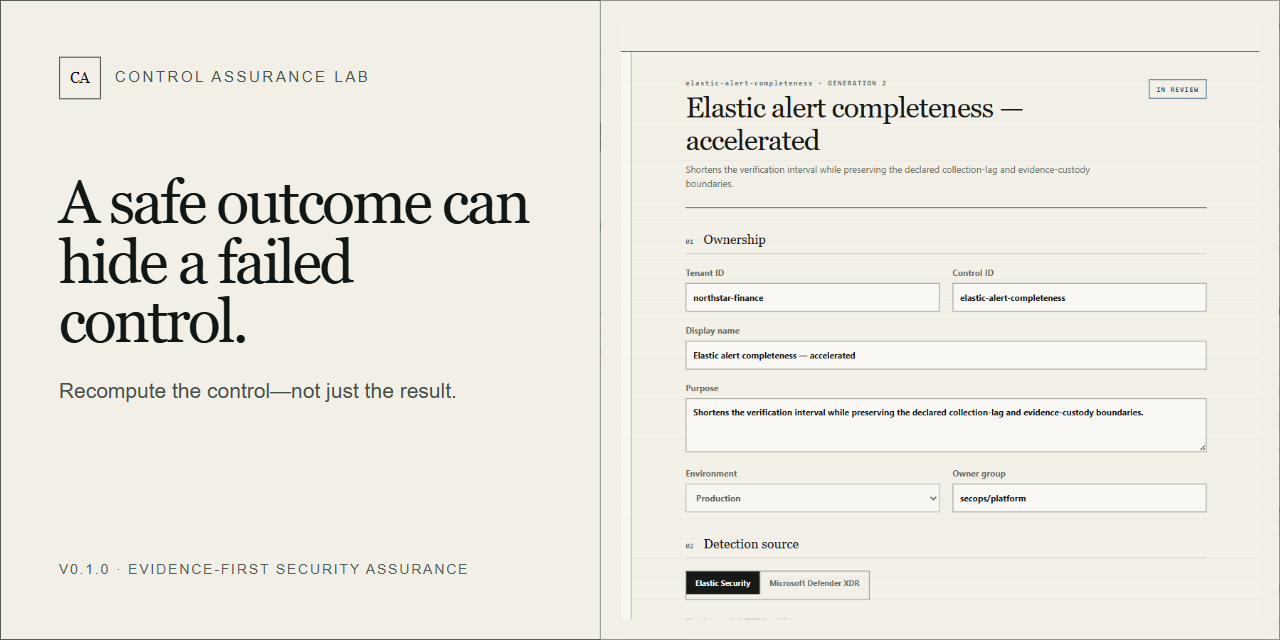
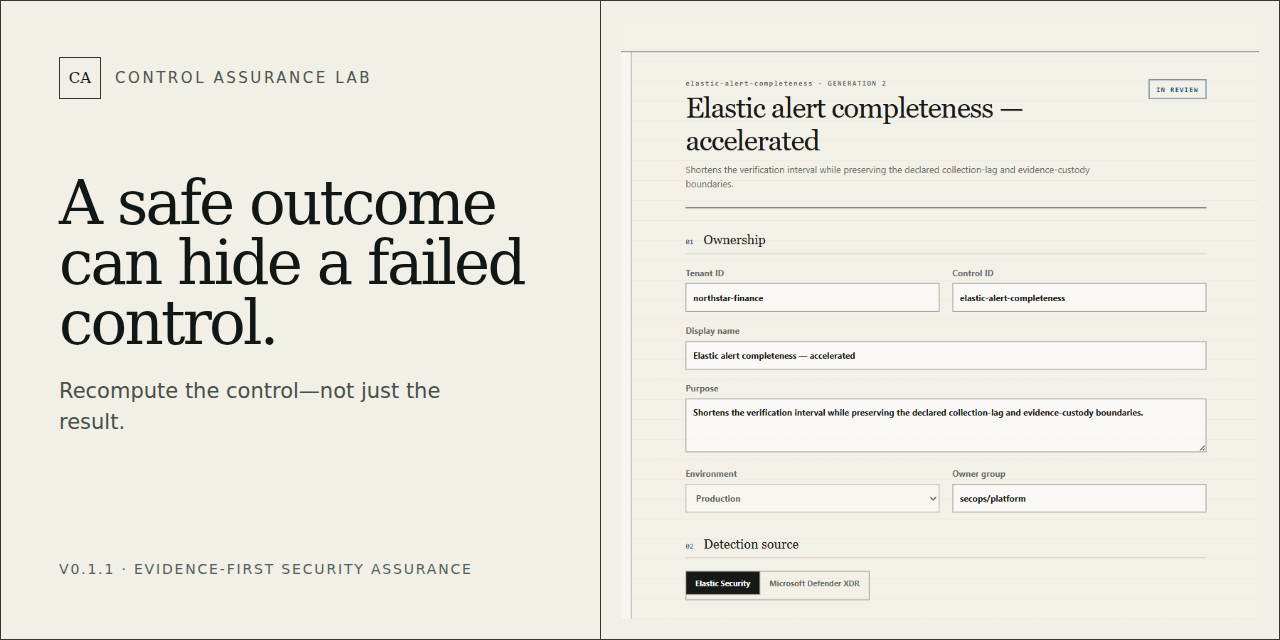
Harden the v0.1.1 container release

diff --git a/docs/assets/social-preview-source.html b/docs/assets/social-preview-source.html
@@ -120,7 +120,7 @@
         </div>
         <h1>A safe outcome can hide a failed control.</h1>
         <p class="subhead">Recompute the control—not just the result.</p>
-        <p class="release">v0.1.0 · Evidence-first security assurance</p>
+        <p class="release">v0.1.1 · Evidence-first security assurance</p>
       </section>
       <section class="product" aria-label="Control plane preview">
         <img

diff --git a/scripts/canonicalize-buildkit-layout.py b/scripts/canonicalize-buildkit-layout.py
@@ -1,0 +1,69 @@
+#!/usr/bin/env python3
+"""Remove only BuildKit's empty local-content-store ingest workspace."""
+
+from __future__ import annotations
+
+import argparse
+import os
+import stat
+from pathlib import Path
+
+
+class LayoutRejectedError(ValueError):
+    """The BuildKit output cannot be reduced to a closed OCI layout."""
+
+
+def canonicalize(layout: Path) -> None:
+    """Remove ``ingest`` only when both paths are real directories and it is empty."""
+
+    try:
+        layout_mode = layout.lstat().st_mode
+    except FileNotFoundError as error:
+        raise LayoutRejectedError(f"layout directory does not exist: {layout}") from error
+    if not stat.S_ISDIR(layout_mode):
+        raise LayoutRejectedError(f"layout path is not a directory: {layout}")
+
+    ingest = layout / "ingest"
+    try:
+        ingest_mode = ingest.lstat().st_mode
+    except FileNotFoundError as error:
+        raise LayoutRejectedError(
+            f"expected BuildKit ingest directory is missing: {ingest}"
+        ) from error
+    if not stat.S_ISDIR(ingest_mode):
+        raise LayoutRejectedError(
+            f"BuildKit ingest path is not a real directory: {ingest}"
+        )
+
+    with os.scandir(ingest) as entries:
+        if next(entries, None) is not None:
+            raise LayoutRejectedError(
+                f"BuildKit ingest directory is not empty: {ingest}"
+            )
+
+    # This is the final emptiness check: rmdir fails atomically if a writer
+    # creates an entry after the scan.
+    os.rmdir(ingest)
+
+
+def main() -> int:
+    parser = argparse.ArgumentParser(
+        description=(
+            "Remove BuildKit's empty containerd ingest workspace before strict "
+            "OCI-layout verification."
+        )
+    )
+    parser.add_argument("layout", type=Path, help="BuildKit OCI directory output")
+    arguments = parser.parse_args()
+
+    try:
+        canonicalize(arguments.layout)
+    except (LayoutRejectedError, OSError) as error:
+        parser.exit(1, f"layout canonicalization rejected: {error}\n")
+
+    print(f"Removed empty BuildKit ingest workspace: {arguments.layout / 'ingest'}")
+    return 0
+
+
+if __name__ == "__main__":
+    raise SystemExit(main())

diff --git a/tests/test_buildkit_layout_canonicalizer.py b/tests/test_buildkit_layout_canonicalizer.py
@@ -1,0 +1,60 @@
+from __future__ import annotations
+
+import subprocess
+import sys
+from pathlib import Path
+
+import pytest
+
+_ROOT = Path(__file__).resolve().parents[1]
+_CANONICALIZER = _ROOT / "scripts" / "canonicalize-buildkit-layout.py"
+
+
+def _run(layout: Path) -> subprocess.CompletedProcess[str]:
+    return subprocess.run(
+        [sys.executable, str(_CANONICALIZER), str(layout)],
+        check=False,
+        capture_output=True,
+        text=True,
+    )
+
+
+def test_removes_only_an_empty_buildkit_ingest_workspace(tmp_path: Path) -> None:
+    layout = tmp_path / "layout"
+    ingest = layout / "ingest"
+    ingest.mkdir(parents=True)
+    (layout / "index.json").write_text("{}\n", encoding="utf-8")
+
+    result = _run(layout)
+
+    assert result.returncode == 0
+    assert not ingest.exists()
+    assert (layout / "index.json").read_text(encoding="utf-8") == "{}\n"
+
+
+@pytest.mark.parametrize("condition", ["missing", "nonempty", "symlink"])
+def test_rejects_any_noncanonical_ingest_state_without_deleting_it(
+    tmp_path: Path, condition: str
+) -> None:
+    layout = tmp_path / "layout"
+    layout.mkdir()
+    ingest = layout / "ingest"
+
+    if condition == "nonempty":
+        ingest.mkdir()
+        (ingest / "active").write_text("incomplete\n", encoding="utf-8")
+    elif condition == "symlink":
+        target = tmp_path / "target"
+        target.mkdir()
+        ingest.symlink_to(target, target_is_directory=True)
+
+    result = _run(layout)
+
+    assert result.returncode == 1
+    assert result.stderr.startswith("layout canonicalization rejected:")
+    if condition == "nonempty":
+        assert (ingest / "active").read_text(encoding="utf-8") == "incomplete\n"
+    elif condition == "symlink":
+        assert ingest.is_symlink()
+    else:
+        assert not ingest.exists()

diff --git a/tests/test_container_assets.py b/tests/test_container_assets.py
@@ -118,6 +118,12 @@ def test_release_repeats_every_source_and_distribution_gate_on_the_tag() -> None
 
 def test_release_scans_the_exact_unpublished_layout_on_both_platforms() -> None:
     build = _release_step("build-scan", "Build the unpublished multi-platform OCI layout")
+    canonicalize = _release_step(
+        "build-scan", "Canonicalize the BuildKit content-store layout"
+    )
+    close = _release_step(
+        "build-scan", "Close the layout over both images and both attestations"
+    )
     assert build["with"]["push"] is False
     assert build["with"]["platforms"] == "linux/amd64,linux/arm64"
     assert "type=oci" in build["with"]["outputs"]
@@ -128,6 +134,18 @@ def test_release_scans_the_exact_unpublished_layout_on_both_platforms() -> None:
         "generator=docker/buildkit-syft-scanner@"
         "sha256:79e7b013cbec16bbb436f312819a49a4a57752b2270c1a9332ae1a10fcc82a68"
     )
+    assert canonicalize["env"]["LAYOUT"] == "${{ runner.temp }}/control-assurance-oci"
+    assert (
+        'python scripts/canonicalize-buildkit-layout.py "$LAYOUT"'
+        in canonicalize["run"]
+    )
+    step_names = [
+        step.get("name")
+        for step in _RELEASE["jobs"]["build-scan"]["steps"]
+        if isinstance(step, dict)
+    ]
+    assert step_names.index(build["name"]) < step_names.index(canonicalize["name"])
+    assert step_names.index(canonicalize["name"]) < step_names.index(close["name"])
     assert "docker/login-action@" not in yaml.safe_dump(_RELEASE["jobs"]["build-scan"])
     assert _RELEASE_WORKFLOW.count("TRIVY_PLATFORM: linux/amd64") == 1
     assert _RELEASE_WORKFLOW.count("TRIVY_PLATFORM: linux/arm64") == 1

diff --git a/tests/test_container_layout_verifier.py b/tests/test_container_layout_verifier.py
@@ -16,7 +16,7 @@ import pytest
 _ROOT = Path(__file__).resolve().parents[1]
 _VERIFIER = _ROOT / "scripts" / "verify-container-layout.py"
 _REFERENCE = "sha-deadbeef"
-_VERSION = "0.1.0"
+_VERSION = "0.1.1"
 _REVISION = "d" * 40
 _SOURCE = "https://github.com/gyubin02/control-assurance-lab"
 _EPOCH = 1_700_000_000

diff --git a/README.md b/README.md
@@ -1,11 +1,11 @@
 # Control Assurance Lab
 
 [![CI](https://github.com/gyubin02/control-assurance-lab/actions/workflows/checks.yml/badge.svg)](https://github.com/gyubin02/control-assurance-lab/actions/workflows/checks.yml)
-[![Release](https://img.shields.io/github/v/release/gyubin02/control-assurance-lab?display_name=tag&sort=semver)](https://github.com/gyubin02/control-assurance-lab/releases/tag/v0.1.0)
+[![Release](https://img.shields.io/github/v/release/gyubin02/control-assurance-lab?display_name=tag&sort=semver)](https://github.com/gyubin02/control-assurance-lab/releases/tag/v0.1.1)
 [![License](https://img.shields.io/badge/license-Apache--2.0-1f4b3f.svg)](LICENSE)
 
 Control Assurance Lab identifies which security control failed—even when a
-downstream safeguard kept the final outcome safe. v0.1.0 combines reproducible
+downstream safeguard kept the final outcome safe. v0.1.1 combines reproducible
 matched-intervention experiments with an identity-bound evidence runtime and a
 change-controlled web control plane.
 
@@ -15,11 +15,11 @@ change-controlled web control plane.
 
 ![Control Assurance change desk with an applied first generation and a second generation awaiting independent review](docs/assets/control-plane-hero.png)
 
-*The real v0.1.0 interface with synthetic operator data. Production access
+*The real v0.1.1 interface with synthetic operator data. Production access
 requires SSO; no demo login is shipped.*
 
 [Inspect the verified case](https://gyubin02.github.io/control-assurance-lab/web/)
-· [Read the v0.1.0 release](https://github.com/gyubin02/control-assurance-lab/releases/tag/v0.1.0)
+· [Read the v0.1.1 release](https://github.com/gyubin02/control-assurance-lab/releases/tag/v0.1.1)
 · [Review the pilot boundary](docs/financial-pilot-boundary.md)
 
 ## Why this exists
@@ -53,7 +53,7 @@ Python 3.12.x is required. The upper bound is intentional: the locked
 environment and release image are not qualified on Python 3.13.
 
 ```bash
-git clone --branch v0.1.0 --depth 1 \
+git clone --branch v0.1.1 --depth 1 \
   https://github.com/gyubin02/control-assurance-lab.git
 cd control-assurance-lab
 
@@ -115,10 +115,10 @@ assurance-lab benchmark release verify /tmp/financial-control-lifecycle-v1
 That build runs three synthetic scenarios, 16 factorial cells per scenario,
 and three exact replicates per cell: 144 executions. It also replays the frozen
 C01–C20 corruption corpus and requires the Python and Node evaluators to agree.
-v0.1.0 does not include a precomputed benchmark result; the command creates a
+v0.1.1 does not include a precomputed benchmark result; the command creates a
 local, content-closed result.
 
-## What ships in v0.1.0
+## What ships in v0.1.1
 
 | Surface | Implemented boundary |
 |---|---|
@@ -217,12 +217,12 @@ arbitrary experiment profiles.
 
 ## Container release
 
-The `v0.1.0` tag publishes the same source as a non-root `linux/amd64` and
+The `v0.1.1` tag publishes the same source as a non-root `linux/amd64` and
 `linux/arm64` image:
 
 ```bash
-docker pull ghcr.io/gyubin02/control-assurance-lab:0.1.0
-docker run --rm ghcr.io/gyubin02/control-assurance-lab:0.1.0 \
+docker pull ghcr.io/gyubin02/control-assurance-lab:0.1.1
+docker run --rm ghcr.io/gyubin02/control-assurance-lab:0.1.1 \
   assurance-lab --version
 ```
 

diff --git a/deploy/container/README.md b/deploy/container/README.md
@@ -21,8 +21,8 @@ Build the same source tree used for the source-revision label:
 docker build \
   --build-arg SOURCE_REVISION="$(git rev-parse HEAD)" \
   --build-arg SOURCE_DATE_EPOCH="$(git show -s --format=%ct HEAD)" \
-  --build-arg IMAGE_VERSION="0.1.0" \
-  --tag control-assurance-lab:0.1.0 \
+  --build-arg IMAGE_VERSION="0.1.1" \
+  --tag control-assurance-lab:0.1.1 \
   .
 ```
 
@@ -70,9 +70,9 @@ identity; a mutable tag is not a trust anchor.
 
 ## Verify a published release as a consumer
 
-The first published release is `v0.1.0`. Obtain the canonical `vX.Y.Z` source
-tag and `sha256:...` index digest from its GitHub Release record, then verify
-the immutable subject rather than trusting the version tag:
+The first successful container release is `v0.1.1`. Obtain the canonical
+`vX.Y.Z` source tag and `sha256:...` index digest from its GitHub Release
+record, then verify the immutable subject rather than trusting the version tag:
 
 ```sh
 REPOSITORY=gyubin02/control-assurance-lab

diff --git a/verifier-js/README.md b/verifier-js/README.md
@@ -118,7 +118,7 @@ node ./src/elastic-security-cli.js \
   --receipt ../capture/receipt.json \
   --expected-request ../capture/expected-request.json \
   --expected-endpoint-origin-digest sha256:... \
-  --expected-connector-version 0.1.0 \
+  --expected-connector-version 0.1.1 \
   --records-output ../capture/records.jsonl
 ```
 
@@ -164,7 +164,7 @@ node ./src/defender-xdr-cli.js \
   --receipt ../capture/receipt.json \
   --expected-request ../capture/expected-request.json \
   --expected-endpoint-origin-digest sha256:... \
-  --expected-connector-version 0.1.0 \
+  --expected-connector-version 0.1.1 \
   --records-output ../capture/records.jsonl
 ```
 
